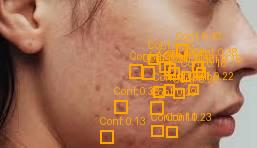
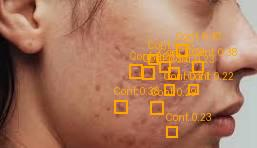
feat: update inference worker parameters and validation

diff --git a/backend/inference_worker/main.py b/backend/inference_worker/main.py
@@ -7,135 +7,139 @@ from PIL import Image
 from fastapi import FastAPI, UploadFile, File, HTTPException
 from fastapi.responses import JSONResponse
 
-app = FastAPI(title="SkinWISE Inference Worker (SAHI Enabled)", version="1.1")
+app = FastAPI(title="SkinWISE Inference Worker", version="1.0")
 
+# Load ONNX session globally on startup. NEVER load this per-request.
+# Path assumes the worker is run from the `backend/inference_worker` directory.
 MODEL_PATH = "../../models/best.onnx"
+SKINTYPE_MODEL_PATH = "../../models/skinwise_mobilenetv2_skintype.onnx"
+
 try:
+    # CPU execution provider. Swap to 'CUDAExecutionProvider' later if GPU is available.
     SESSION = ort.InferenceSession(MODEL_PATH, providers=['CPUExecutionProvider'])
     INPUT_NAME = SESSION.get_inputs()[0].name
 except Exception as e:
-    print(f"CRITICAL: Failed to load ONNX model. Error: {e}")
+    print(f"CRITICAL: Failed to load YOLO ONNX model at {MODEL_PATH}. Error: {e}")
     SESSION = None
 
-# Production Thresholds
-CONF_THRESH = 0.20
-IOU_THRESH = 0.40
-SLICE_SIZE = 640
-OVERLAP_RATIO = 0.20
-MAX_IMAGE_DIM = 1280  # Pre-scale limit to prevent CPU timeout
+try:
+    SKINTYPE_SESSION = ort.InferenceSession(SKINTYPE_MODEL_PATH, providers=['CPUExecutionProvider'])
+    SKINTYPE_INPUT = SKINTYPE_SESSION.get_inputs()[0].name
+except Exception as e:
+    print(f"CRITICAL: Failed to load Skin Type ONNX model at {SKINTYPE_MODEL_PATH}. Error: {e}")
+    SKINTYPE_SESSION = None
 
-def get_slice_bboxes(image_w, image_h, slice_size, overlap_ratio):
-    """Calculates overlapping grid coordinates for the sliding window."""
-    stride = int(slice_size * (1 - overlap_ratio))
-    bboxes = []
+# PSD Thresholds & ImageNet Constants
+CONF_THRESH = 0.15
+IOU_THRESH = 0.45
+IMAGENET_MEAN = np.array([0.485, 0.456, 0.406], dtype=np.float32)
+IMAGENET_STD = np.array([0.229, 0.224, 0.225], dtype=np.float32)
+
+def letterbox_image(image: Image.Image, target_size: tuple) -> tuple:
+    """
+    Resizes image with an unmodified aspect ratio using padding (letterboxing).
+    YOLOv8 requires this specific preprocessing to prevent spatial distortion.
+    """
+    iw, ih = image.size
+    w, h = target_size
+    scale = min(w/iw, h/ih)
+    nw = int(iw * scale)
+    nh = int(ih * scale)
+
+    image = image.resize((nw, nh), Image.Resampling.LANCZOS)
+    new_image = Image.new('RGB', target_size, (114, 114, 114)) # Standard YOLO padding color
+    new_image.paste(image, ((w - nw) // 2, (h - nh) // 2))
     
-    for y in range(0, image_h, stride):
-        for x in range(0, image_w, stride):
-            x_min = x
-            y_min = y
-            x_max = min(x_min + slice_size, image_w)
-            y_max = min(y_min + slice_size, image_h)
-            
-            # If the slice hits the right/bottom edge, shift it back to maintain 640x640
-            if x_max - x_min < slice_size:
-                x_min = max(0, x_max - slice_size)
-            if y_max - y_min < slice_size:
-                y_min = max(0, y_max - slice_size)
-                
-            bbox = (x_min, y_min, x_min + slice_size, y_min + slice_size)
-            if bbox not in bboxes:
-                bboxes.append(bbox)
-                
-    return bboxes
-
-def process_slice(slice_img: Image.Image) -> np.ndarray:
-    """Formats a 640x640 slice for ONNX ingestion."""
-    img_data = np.array(slice_img, dtype=np.float32) / 255.0
-    img_data = np.transpose(img_data, (2, 0, 1))
-    return np.expand_dims(img_data, axis=0)
+    # Return padded image and the padding metadata to adjust bounding boxes later
+    dw = (w - nw) / 2
+    dh = (h - nh) / 2
+    return new_image, scale, dw, dh
 
 @app.post("/predict")
 async def predict(file: UploadFile = File(...)):
     if SESSION is None:
         raise HTTPException(status_code=500, detail="ONNX Model not loaded.")
+    if not file.content_type.startswith("image/"):
+        raise HTTPException(status_code=400, detail="Invalid file type. Image required.")
 
     start_time = time.perf_counter()
-    image_bytes = await file.read()
     
+    # 1. Read and Preprocess
+    image_bytes = await file.read()
     try:
         img = Image.open(io.BytesIO(image_bytes)).convert("RGB")
     except Exception:
         raise HTTPException(status_code=400, detail="Corrupted image file.")
         
     orig_w, orig_h = img.size
+    padded_img, scale, dw, dh = letterbox_image(img, (640, 640))
     
-    # 1. Pre-scale to prevent inference timeout on massive images
-    scale_factor = 1.0
-    if max(orig_w, orig_h) > MAX_IMAGE_DIM:
-        scale_factor = MAX_IMAGE_DIM / float(max(orig_w, orig_h))
-        new_w = int(orig_w * scale_factor)
-        new_h = int(orig_h * scale_factor)
-        img = img.resize((new_w, new_h), Image.Resampling.LANCZOS)
-    
-    cur_w, cur_h = img.size
-    
-    # 2. Generate SAHI sliding window coordinates
-    slice_coords = get_slice_bboxes(cur_w, cur_h, SLICE_SIZE, OVERLAP_RATIO)
-    
-    global_boxes = []
-    global_scores = []
-    global_class_ids = []
+    # --- YOLO PREPROCESSING ---
+    # Convert to NumPy, normalize, and format to [1, 3, 640, 640]
+    img_data = np.array(padded_img, dtype=np.float32) / 255.0
+    img_data = np.transpose(img_data, (2, 0, 1))
+    img_data = np.expand_dims(img_data, axis=0)
 
-    # 3. Process each slice
-    for (x_min, y_min, x_max, y_max) in slice_coords:
-        slice_img = img.crop((x_min, y_min, x_max, y_max))
-        tensor = process_slice(slice_img)
+    # --- MOBILENETV2 PREPROCESSING ---
+    skin_img = img.resize((224, 224), Image.Resampling.LANCZOS)
+    skin_arr = (np.array(skin_img, dtype=np.float32) / 255.0 - IMAGENET_MEAN) / IMAGENET_STD
+    skin_tensor = np.expand_dims(np.transpose(skin_arr, (2, 0, 1)), axis=0)
+
+    # 2. Run Inference (Sequential for CPU stability, can be threaded if resources allow)
+    outputs = SESSION.run(None, {INPUT_NAME: img_data})
+    output_tensor = outputs[0]  # Shape: [1, 4 + num_classes, 8400]
+    
+    skintype_outputs = SKINTYPE_SESSION.run(None, {SKINTYPE_INPUT: skin_tensor})
+    # Softmax the raw logits to get probabilities
+    logits = skintype_outputs[0][0]
+    exp_logits = np.exp(logits - np.max(logits))
+    skin_probs = exp_logits / exp_logits.sum()
+
+    # 3. Post-Process (NMS & Coordinate Mapping)
+    predictions = np.squeeze(output_tensor).T  # Shape: [8400, 4 + num_classes]
+    
+    boxes = []
+    scores = []
+    class_ids = []
+
+    for row in predictions:
+        # row[0:4] = [x_center, y_center, width, height]
+        # row[4:] = class probabilities
+        class_probs = row[4:]
+        class_id = np.argmax(class_probs)
+        max_prob = class_probs[class_id]
         
-        outputs = SESSION.run(None, {INPUT_NAME: tensor})
-        predictions = np.squeeze(outputs[0]).T  # [8400, 4 + classes]
-        
-        for row in predictions:
-            class_probs = row[4:]
-            class_id = np.argmax(class_probs)
-            max_prob = class_probs[class_id]
+        if max_prob > CONF_THRESH:
+            xc, yc, w, h = row[0:4]
+            # Convert letterboxed coordinates back to original image scale
+            xc = (xc - dw) / scale
+            yc = (yc - dh) / scale
+            w = w / scale
+            h = h / scale
             
-            if max_prob > CONF_THRESH:
-                xc, yc, w, h = row[0:4]
-                
-                # Convert slice-relative coordinates to global image coordinates
-                global_xc = xc + x_min
-                global_yc = yc + y_min
-                
-                x1 = global_xc - (w / 2)
-                y1 = global_yc - (h / 2)
-                
-                global_boxes.append([x1, y1, w, h])
-                global_scores.append(float(max_prob))
-                global_class_ids.append(int(class_id))
+            x1 = xc - (w / 2)
+            y1 = yc - (h / 2)
+            
+            boxes.append([x1, y1, w, h]) # cv2.dnn.NMSBoxes expects [x, y, w, h]
+            scores.append(float(max_prob))
+            class_ids.append(int(class_id))
 
-    # 4. Global Non-Maximum Suppression to merge overlapping boxes from different slices
-    indices = cv2.dnn.NMSBoxes(global_boxes, global_scores, CONF_THRESH, IOU_THRESH)
+    # Apply Non-Maximum Suppression (NMS) to remove duplicate overlapping boxes
+    indices = cv2.dnn.NMSBoxes(boxes, scores, CONF_THRESH, IOU_THRESH)
     
     detections = []
     if len(indices) > 0:
         for i in indices.flatten():
-            x, y, w, h = global_boxes[i]
-            
-            # Revert the pre-scale to map coordinates back to the user's original image
-            orig_x = x / scale_factor
-            orig_y = y / scale_factor
-            orig_w_box = w / scale_factor
-            orig_h_box = h / scale_factor
-            
-            # Normalize to [0, 1] relative to original image
+            x, y, w, h = boxes[i]
+            # Normalize coordinates to [0, 1] relative to original image as per PSD
             det = {
-                "class_id": global_class_ids[i],
-                "bbox_x": round(max(0, orig_x + (orig_w_box/2)) / orig_w, 4),
-                "bbox_y": round(max(0, orig_y + (orig_h_box/2)) / orig_h, 4),
-                "bbox_w": round(min(orig_w, orig_w_box) / orig_w, 4),
-                "bbox_h": round(min(orig_h, orig_h_box) / orig_h, 4),
-                "confidence": round(global_scores[i], 4),
-                "low_conf": global_scores[i] < 0.60
+                "class_id": class_ids[i],
+                "bbox_x": round(max(0, x + (w/2)) / orig_w, 4), # Center X
+                "bbox_y": round(max(0, y + (h/2)) / orig_h, 4), # Center Y
+                "bbox_w": round(min(orig_w, w) / orig_w, 4),
+                "bbox_h": round(min(orig_h, h) / orig_h, 4),
+                "confidence": round(scores[i], 4),
+                "low_conf": scores[i] < 0.60
             }
             detections.append(det)
 
@@ -144,7 +148,11 @@ async def predict(file: UploadFile = File(...)):
     return JSONResponse({
         "status": "success",
         "inference_ms": inference_ms,
-        "slices_processed": len(slice_coords),
         "total_detections": len(detections),
-        "detections": detections
+        "detections": detections,
+        "skin_type": {
+            "p_dry": float(skin_probs[0]),
+            "p_balanced": float(skin_probs[1]),
+            "p_oily": float(skin_probs[2])
+        }
     })
